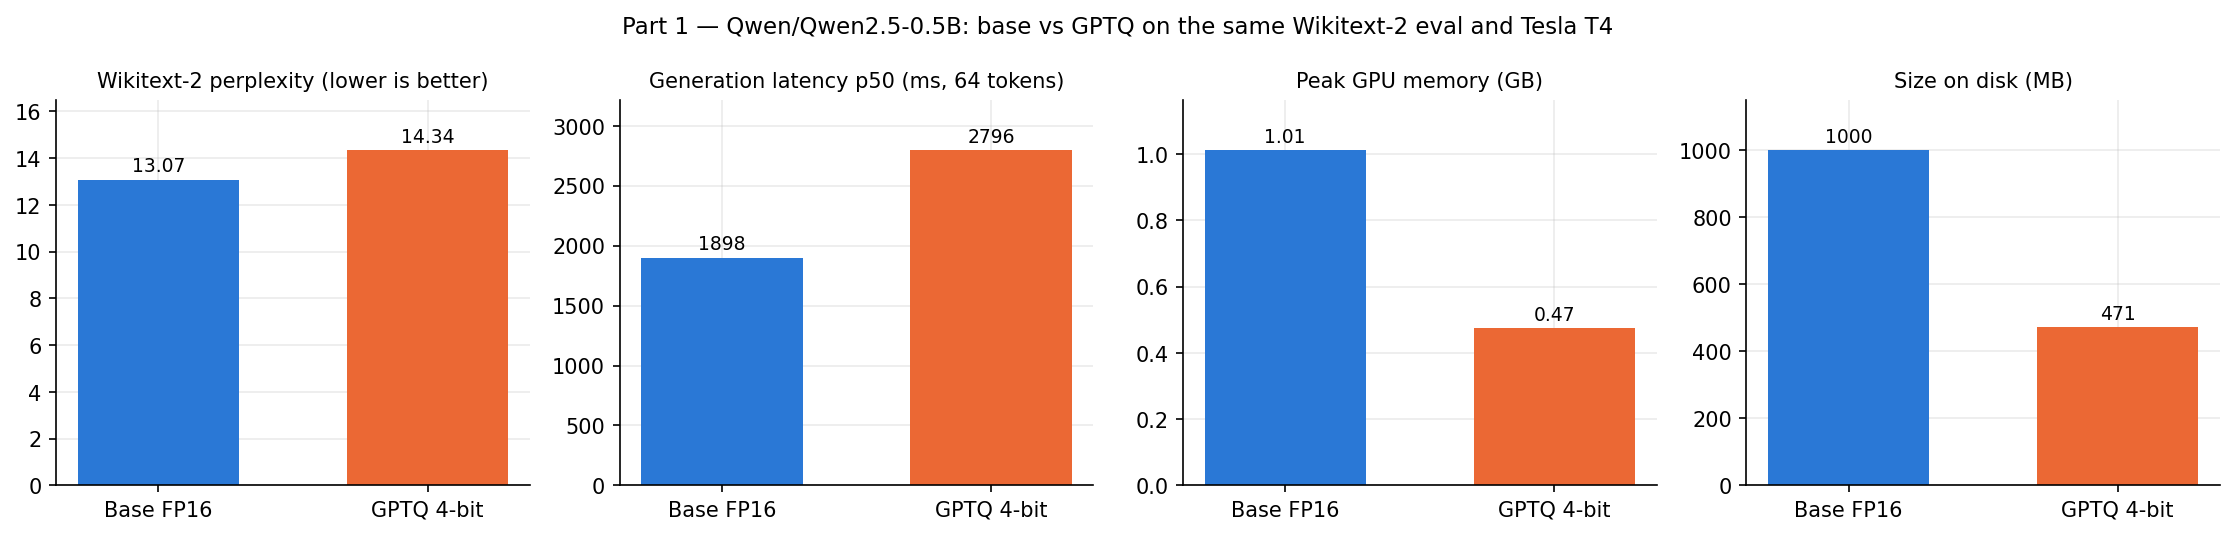
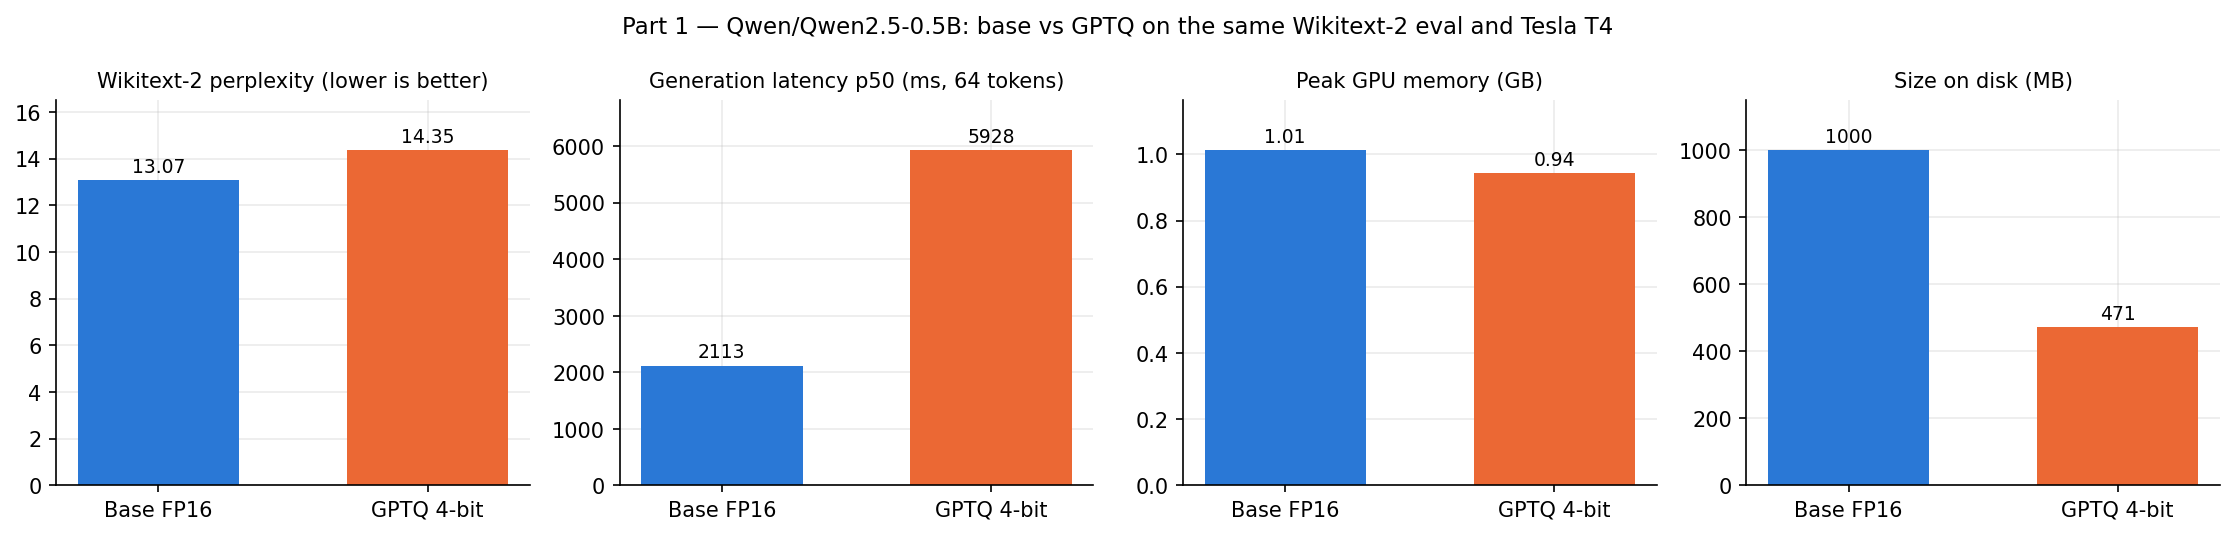
hw12: part1 Table HW11.1, figures and findings in METRICS.md

diff --git a/hw12/METRICS.md b/hw12/METRICS.md
@@ -14,31 +14,31 @@ Peak memory: `torch.cuda.max_memory_allocated` during the latency benchmark. Siz
 
 | Configuration                      |   Quality metric (Wikitext-2 test PPL ↓) | p50 / p95 latency (ms)   |   Peak memory (GB) |   Size on disk (MB) |
 |:-----------------------------------|-----------------------------------------:|:-------------------------|-------------------:|--------------------:|
-| Base LLM (Qwen/Qwen2.5-0.5B, FP16) |                                   13.07  | 1897.9 / 2385.2          |              1.011 |               999.5 |
-| GPTQ-quantized LLM (4-bit, g128)   |                                   14.339 | 2795.9 / 3464.5          |              0.474 |               471.1 |
+| Base LLM (Qwen/Qwen2.5-0.5B, FP16) |                                   13.07  | 2113.3 / 4758.9          |              1.012 |               999.5 |
+| GPTQ-quantized LLM (4-bit, g128)   |                                   14.354 | 5927.8 / 6357.9          |              0.944 |               471.1 |
 
 Additional measurements:
 
 | Configuration   |   eval loss (nats/token) | prefill 512 tok p50 / p95 (ms)   |   ms / generated token (p50) |   peak memory during PPL eval (GB) |   weights only (MB) |
 |:----------------|-------------------------:|:---------------------------------|-----------------------------:|-----------------------------------:|--------------------:|
-| Base FP16       |                   2.5703 | 33.74 / 37.99                    |                        29.65 |                              4.111 |               988.1 |
-| GPTQ 4-bit      |                   2.663  | 51.14 / 57.21                    |                        43.69 |                              3.572 |               459.4 |
+| Base FP16       |                   2.5703 | 39.78 / 51.20                    |                        33.02 |                              4.119 |               988.1 |
+| GPTQ 4-bit      |                   2.6641 | 90.79 / 126.39                   |                        92.62 |                              4.039 |               459.4 |
 
 ![base vs gptq](p1_base_vs_gptq.png)
 ![latency distribution](p1_latency_distribution.png)
 
 Sample greedy continuation of "The history of the Roman Empire":
 - Base: 'The history of the Roman Empire is one of the most fascinating in the world. It is a fascinating history because it is the history of the world. It is a history of the world because it is the history of the world.'
-- GPTQ: 'The history of the Roman Empire is a fascinating tale of conquest, empire, and the rise of a powerful civilization. The Romans were a diverse group of people who spoke different languages and had different customs, but they all shared a common'
+- GPTQ: 'The history of the Roman Empire is one of the most fascinating and complex stories in the history of the world. The Romans were a people who had a unique blend of culture, history, and philosophy. They were also known for their'
 
 ### Part 1 findings
 
-- **Quality cost:** perplexity rose from 13.070 to 14.339 (+9.7%), i.e. eval loss 2.5703 → 2.6630 nats/token.
+- **Quality cost:** perplexity rose from 13.070 to 14.354 (+9.8%), i.e. eval loss 2.5703 → 2.6641 nats/token.
 - **Size:** 1000 MB → 471 MB on disk (2.12× smaller). It is not 4× because GPTQ quantizes only the transformer
   linear layers; the Qwen/Qwen2.5-0.5B embedding matrix (151,936 × 896, tied with the LM head) stays in FP16, and each group of 128 weights also stores a scale and zero point.
-- **Peak GPU memory during generation:** 1.011 GB → 0.474 GB (2.13× lower). KV cache and activations stay FP16, so memory shrinks less than the weights.
-- **Latency (batch 1, 128-token prompt, 64 new tokens):** p50 1897.9 → 2795.9 ms, p95 2385.2 → 3464.5 ms
-  — the GPTQ model is 1.47× slower. Prefill of 512 tokens: 33.74 → 51.14 ms.
+- **Peak GPU memory during generation:** 1.012 GB → 0.944 GB (1.07× lower). KV cache and activations stay FP16, so memory shrinks less than the weights.
+- **Latency (batch 1, 128-token prompt, 64 new tokens):** p50 2113.3 → 5927.8 ms, p95 4758.9 → 6357.9 ms
+  — the GPTQ model is 2.81× slower. Prefill of 512 tokens: 39.78 → 90.79 ms.
   Kernel used: n/a. For a 0.5 B model at batch 1, each decoding step is dominated by per-layer kernel-launch overhead rather than by reading weights, and the 4-bit weights must be dequantized inside the kernel, so GPTQ gives no real speed-up here; its gain is memory and storage.
-- **Quantization cost:** 4.2 min on Tesla T4 with 128 calibration windows — no training and no labels.
+- **Quantization cost:** 1.5 min on Tesla T4 with 128 calibration windows — no training and no labels.
 <!-- END part1 -->
